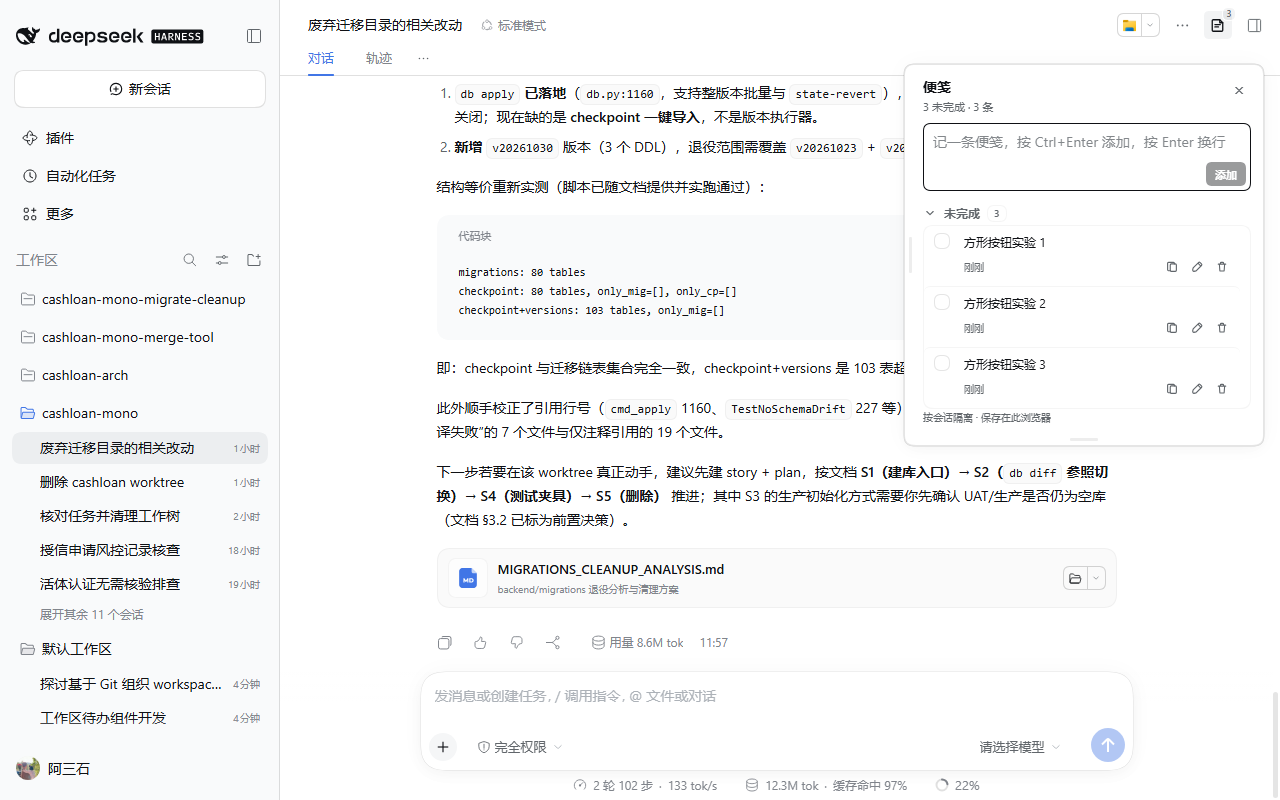
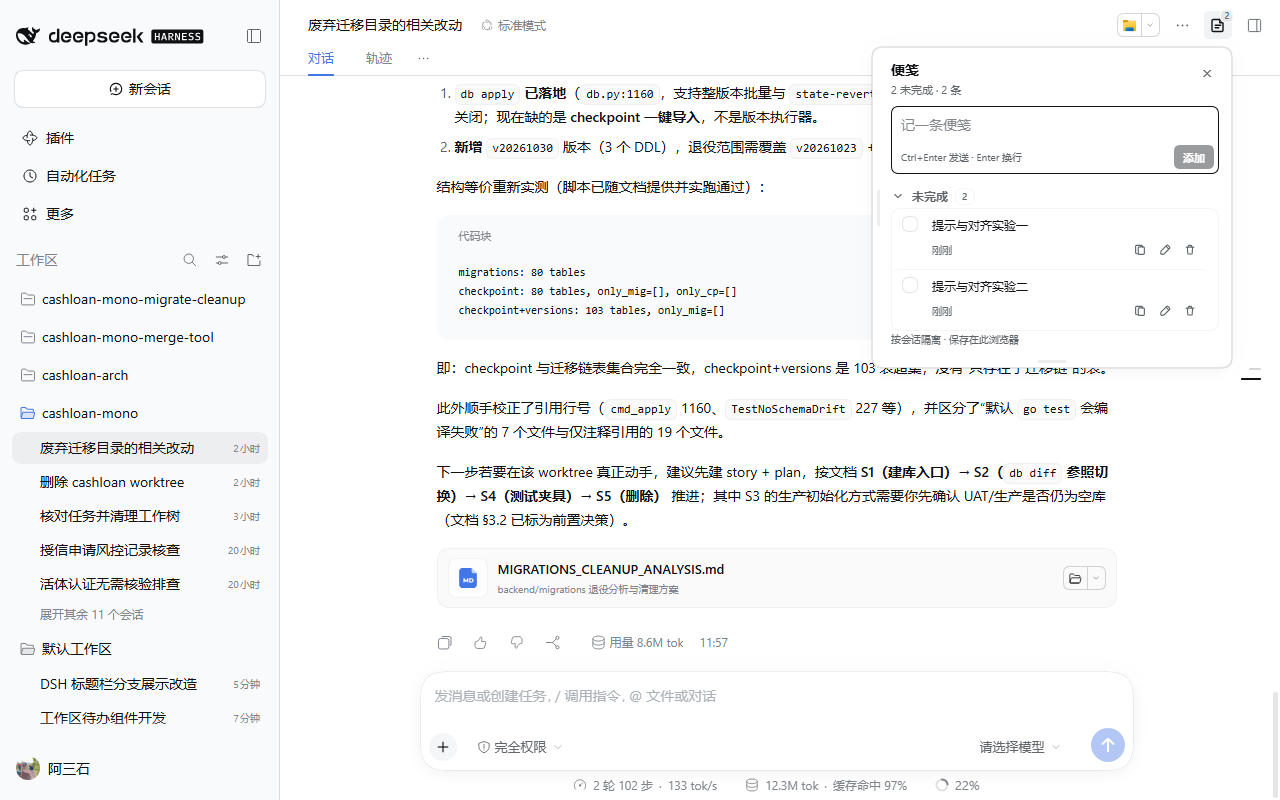
feat: resolve note hints, alignment, and sidebar offset

diff --git a/client.js b/client.js
@@ -67,7 +67,8 @@ window.__ModuleLoader__.load({
         'workspace.current': '当前会话',
         'stats.openLabel': '未完成',
         'stats.allDone': '全部完成',
-        'add.placeholder': '记一条便笺，按 Ctrl+Enter 添加，按 Enter 换行',
+        'add.placeholder': '记一条便笺',
+        'add.shortcut': 'Ctrl+Enter 发送 · Enter 换行',
         'add.action': '添加',
         'add.hint': '只记一件具体的小事，做完就打勾。',
         'progress': '{done} / {total} 已完成',
@@ -125,7 +126,8 @@ window.__ModuleLoader__.load({
         'workspace.current': 'Current session',
         'stats.openLabel': 'open',
         'stats.allDone': 'all done',
-        'add.placeholder': 'Write a note; Ctrl+Enter adds, Enter starts a new line',
+        'add.placeholder': 'Write a note',
+        'add.shortcut': 'Ctrl+Enter sends · Enter for a new line',
         'add.action': 'Add',
         'add.hint': 'Keep it to one concrete next step; check it off when done.',
         'progress': '{done} / {total} done',
@@ -189,6 +191,9 @@ window.__ModuleLoader__.load({
       '.dsh-wt-addIcon{display:flex;align-items:center;justify-content:center;flex:none;width:18px;height:18px;color:var(--dsw-alias-label-secondary)}',
       '.dsh-wt-input{display:block;flex:0 0 auto;width:100%;min-width:0;box-sizing:border-box;min-height:28px;max-height:120px;padding:5px 0;border:0;outline:0;background:transparent;color:var(--dsw-alias-label-primary);font:inherit;font-size:14px;line-height:18px;resize:none;overflow-y:auto;overflow-x:hidden}',
       '.dsh-wt-input::placeholder{color:var(--dsw-alias-label-secondary);opacity:.78}',
+      '.dsh-wt-addFoot{display:flex;align-items:center;justify-content:space-between;gap:8px;width:100%;min-width:0}',
+      '.dsh-wt-addShortcut{min-width:0;overflow:hidden;font-size:10px;line-height:14px;color:var(--dsw-alias-label-secondary);white-space:nowrap;text-overflow:ellipsis}',
+      '.dsh-wt-addFoot .dsh-wt-addBtn{align-self:center}',
       '.dsh-wt-addBtn{display:inline-flex;align-self:flex-end;align-items:center;justify-content:center;flex:none;height:30px;padding:0 13px;border:0;border-radius:7px;background:var(--dsw-alias-brand-primary);color:var(--dsw-alias-bg-base);font:inherit;font-size:12px;font-weight:600;line-height:1;cursor:pointer}',
       '.dsh-wt-addBtn:hover{filter:brightness(1.06)}',
       '.dsh-wt-addBtn:focus-visible{outline:2px solid var(--dsw-alias-brand-primary);outline-offset:2px}',
@@ -1487,12 +1492,22 @@ window.__ModuleLoader__.load({
       const available = Math.max(PANEL_MIN_WIDTH, window.innerWidth - 32)
       const width = Math.max(PANEL_MIN_WIDTH, Math.min(PANEL_MAX_WIDTH, available, requestedWidth || PANEL_DEFAULT_WIDTH))
       if (placement === 'right') {
-        const top = 64
+        const rect = anchor && anchor.isConnected ? anchor.getBoundingClientRect() : null
+        let desiredRight = rect && rect.width > 0 ? rect.right : window.innerWidth - 16
+        const sidebar = [...document.querySelectorAll('[data-sidebar-right-panel]')].find(node => {
+          const box = node.getBoundingClientRect()
+          return box.width > 24 && box.left > 0 && box.left < window.innerWidth - 24
+        })
+        if (sidebar) {
+          desiredRight = Math.min(desiredRight, sidebar.getBoundingClientRect().left - 8)
+        }
+        const rightInset = Math.max(12, Math.min(window.innerWidth - 12, window.innerWidth - desiredRight))
+        const top = rect && rect.width > 0 ? Math.max(12, Math.round(rect.bottom + 8)) : 64
         const maxHeight = Math.max(PANEL_MIN_HEIGHT, window.innerHeight - top - 16)
         const height = requestedHeight
           ? Math.max(PANEL_MIN_HEIGHT, Math.min(maxHeight, requestedHeight))
           : 0
-        const style = { right: '16px', left: 'auto', top: `${top}px`, width: `${width}px`, maxHeight: `${maxHeight}px` }
+        const style = { right: `${rightInset}px`, left: 'auto', top: `${top}px`, width: `${width}px`, maxHeight: `${maxHeight}px` }
         if (height) style.height = `${height}px`
         return style
       }
@@ -1523,6 +1538,7 @@ window.__ModuleLoader__.load({
       const panelRef = React.useRef(null)
       const panelWidthRef = React.useRef(panelWidth)
       const panelHeightRef = React.useRef(panelHeight)
+      const lastStyleRef = React.useRef('')
       const editRef = React.useRef(null)
       const addRef = React.useRef(null)
       const cancelEditRef = React.useRef(false)
@@ -1540,7 +1556,11 @@ window.__ModuleLoader__.load({
 
       const updatePosition = React.useCallback(() => {
         if (props.anchorRef.current || props.placement === 'right') {
-          setStyle(memoPopoverStyle(props.anchorRef.current, props.placement, panelWidth, panelHeight))
+          const next = memoPopoverStyle(props.anchorRef.current, props.placement, panelWidth, panelHeight)
+          const key = JSON.stringify(next)
+          if (key === lastStyleRef.current) return
+          lastStyleRef.current = key
+          setStyle(next)
         }
       }, [props.anchorRef, props.placement, panelWidth, panelHeight])
 
@@ -1657,6 +1677,20 @@ window.__ModuleLoader__.load({
           window.removeEventListener('resize', updatePosition)
           window.removeEventListener('scroll', updatePosition, true)
         }
+      }, [updatePosition])
+
+      React.useEffect(() => {
+        const anchor = props.anchorRef.current
+        if (!anchor || typeof ResizeObserver !== 'function') return undefined
+        const target = anchor.closest('[class*="_header"]') || anchor
+        const observer = new ResizeObserver(updatePosition)
+        observer.observe(target)
+        return () => observer.disconnect()
+      }, [props.anchorRef, updatePosition])
+
+      React.useEffect(() => {
+        const timer = window.setInterval(updatePosition, 400)
+        return () => window.clearInterval(timer)
       }, [updatePosition])
 
       React.useEffect(() => {
@@ -1877,7 +1911,12 @@ window.__ModuleLoader__.load({
               }
             },
           }),
-          h('button', { type: 'submit', className: 'dsh-wt-addBtn', disabled: !draft.trim() }, say('add.action')),
+          h(
+            'div',
+            { className: 'dsh-wt-addFoot' },
+            h('span', { className: 'dsh-wt-addShortcut' }, say('add.shortcut')),
+            h('button', { type: 'submit', className: 'dsh-wt-addBtn', disabled: !draft.trim() }, say('add.action')),
+          ),
         ),
         h(
           'div',
@@ -2168,7 +2207,7 @@ window.__ModuleLoader__.load({
         refreshHeaderEntry()
       }
 
-      const HEADER_ICON = '<svg width="16" height="16" viewBox="0 0 16 16" fill="none" stroke="currentColor" stroke-width="1.3" stroke-linecap="round" stroke-linejoin="round" aria-hidden="true"><path d="M3.25 2.75h6.5l3 3v7.5c0 .55-.45 1-1 1H3.25c-.55 0-1-.45-1-1V3.75c0-.55.45-1 1-1Z"/><path d="M9.75 2.75v3h3"/><path d="M4.9 7.6h5.4M4.9 9.9h3.6"/></svg>'
+      const HEADER_ICON = '<svg width="16" height="16" viewBox="0 0 16 16" fill="none" stroke="currentColor" stroke-width="1.4" stroke-linecap="round" stroke-linejoin="round" aria-hidden="true"><path d="M3.25 2.5h6.5L13 5.75v7.5c0 .69-.56 1.25-1.25 1.25h-8.5C2.56 14.5 2 13.94 2 13.25v-9.5C2 3.06 2.56 2.5 3.25 2.5Z"/><path d="M9.75 2.5v3.25H13"/><path d="M5.25 8.25h5.5M5.25 10.75h3.5"/></svg>'
 
       const refreshHeaderEntry = () => {
         for (const badge of document.querySelectorAll('.dsh-wt-badge')) badge.remove()

diff --git a/README.en.md b/README.en.md
@@ -21,6 +21,7 @@ Clicking it opens a fixed panel on the right. The sidebar title badge and compos
 - Data is keyed by **session ID**; different sessions in one workspace stay independent.
 - A 28px square top-right icon button shows the open count as a low-contrast gray corner badge; its tooltip reads “Session notes N”.
 - Clicking it opens a fixed right-side panel; switching sessions closes the old panel and updates the entry.
+- The panel's top-right corner aligns with the header entry and shifts left of the DSH right sidebar when that sidebar is open.
 - Clicking the entry opens the right-side panel for add, complete, copy, edit (double-click or pencil), delete, clear completed, and expand completed.
 - Drag the handle on the panel's left edge to resize its width; double-click the handle to reset it, and the width persists in the browser.
 - Drag the bottom-center handle to resize its height; double-click the handle to return to content sizing, and the height persists.
@@ -29,6 +30,7 @@ Clicking it opens a fixed panel on the right. The sidebar title badge and compos
 - The completion circle is visually 16px inside a 24px hit area, matching the row actions.
 - Both the new-note input and the editor grow into multiple rows as you type; in the add box Enter inserts a line and Ctrl+Enter adds, while the editor uses Enter to save and Shift+Enter for a line.
 - The add row no longer shows a plus icon, and **Add** always sits at the right of its own second row, so wrapping never flickers or jumps.
+- The **Ctrl+Enter sends · Enter for a new line** hint sits in the empty space left of the Add button, keeping the input placeholder short.
 - The open and completed lists each scroll inside the popover; the popover frame itself does not show a vertical scrollbar.
 - Both **Open** and **Completed** headings collapse on click with matching count styles; expanding one collapses the other; only the chevron, label, and count are clickable, not the blank right side.
 - The sidebar reminder stays visible while the session is running.

diff --git a/README.md b/README.md
@@ -21,6 +21,7 @@
 - 数据按**会话 ID** 隔离；同一个工作区的不同会话也各自独立。
 - 顶部右侧保持 `28px` 正方形图标按钮，用低对比灰色角标显示未完成数；悬浮提示为「会话便笺 N」。
 - 点击按钮在窗口右侧打开固定面板；切换会话时自动收起旧面板并更新入口。
+- 浮窗右上角对齐顶部入口按钮；DSH 右侧栏打开时自动左移，避免被右侧栏遮挡。
 - 点击入口打开右侧面板：添加、打勾完成、复制、双击或铅笔编辑、删除、清除已完成、展开已完成。
 - 拖动面板左边缘把手可调整宽度，双击把手复位；宽度会保存在浏览器中。
 - 拖动面板底部中央把手可调整高度，双击把手恢复内容自适应；高度会保存。
@@ -29,6 +30,7 @@
 - 完成圆点视觉为 16px，点击区域 24px，与右侧操作按钮更协调。
 - 新增录入框和编辑框都会随内容自动增高为多行；新增框按 Enter 换行、Ctrl+Enter 添加，编辑框按 Enter 保存、Shift+Enter 换行。
 - 新增框不再显示左侧加号；「添加」按钮固定在第二行右侧，输入换行时不会闪烁或跳动。
+- 「Ctrl+Enter 发送 · Enter 换行」提示放在添加按钮左侧的空白处，输入框占位提示保持简洁。
 - 未完成和已完成列表各自在浮窗内部纵向滚动，浮窗本身不出现纵向滚动条。
 - 「未完成」和「已完成」标题都可点击折叠，两侧计数样式保持一致；展开一个会自动收起另一个；点击区域仅限箭头、文字和计数，右侧空白不触发。
 - 侧边栏提醒标签在生成期间保留，方便随时查看。

diff --git a/CHANGELOG.md b/CHANGELOG.md
@@ -1,5 +1,11 @@
 # Changelog
 
+## 1.5.0-experimental.9
+
+- Move the shortcut hint to the empty space left of the Add button and shorten the placeholder.
+- Anchor the panel's right edge to the header entry and shift it left of the DSH right sidebar when that sidebar is open.
+- Refresh the folded-note header icon with a cleaner 1.4px stroke and simplified folds.
+
 ## 1.5.0-experimental.8
 
 - Move the count badge 2px closer to the header icon so it reads as attached to the note rather than a separate notification.
